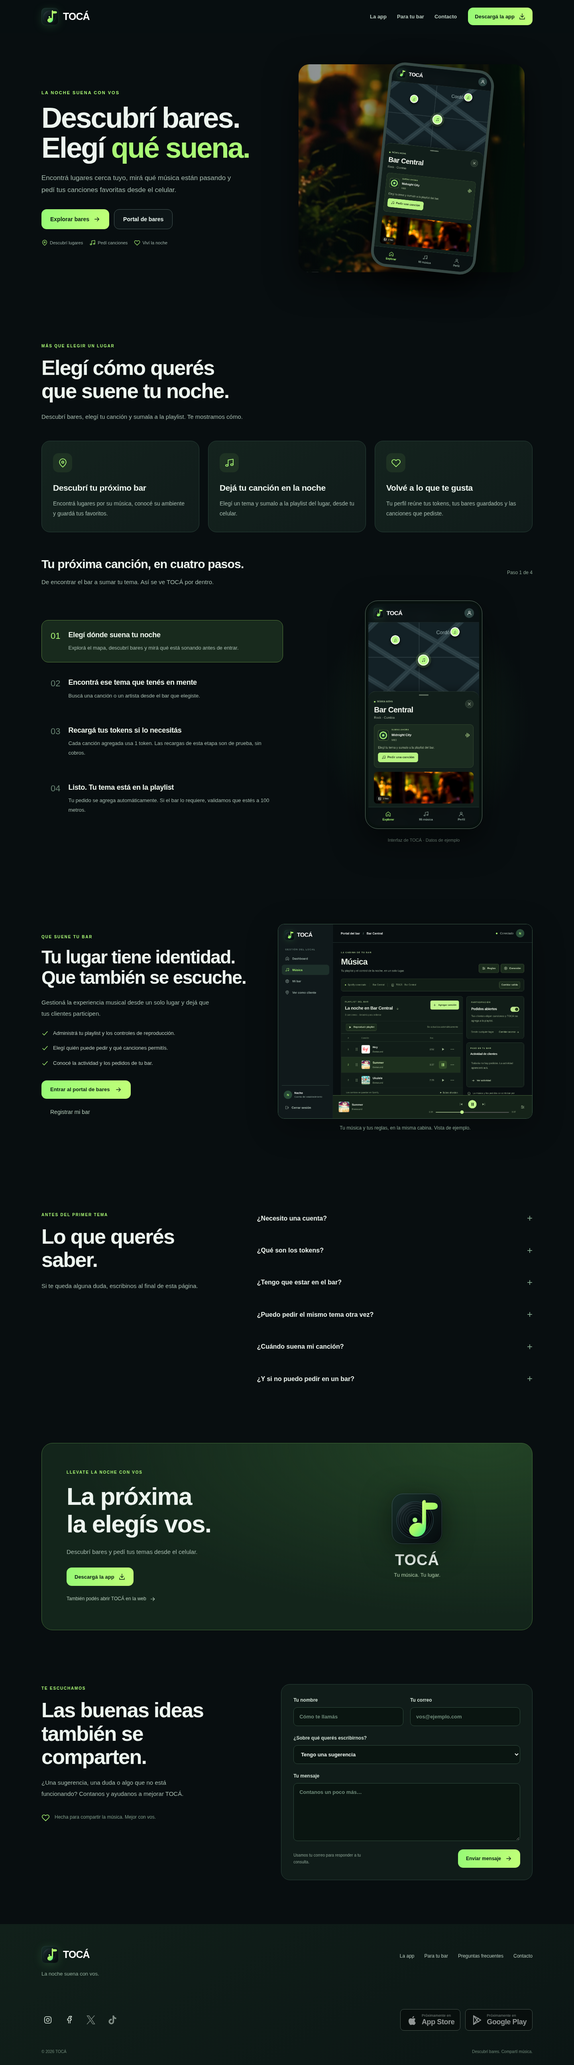
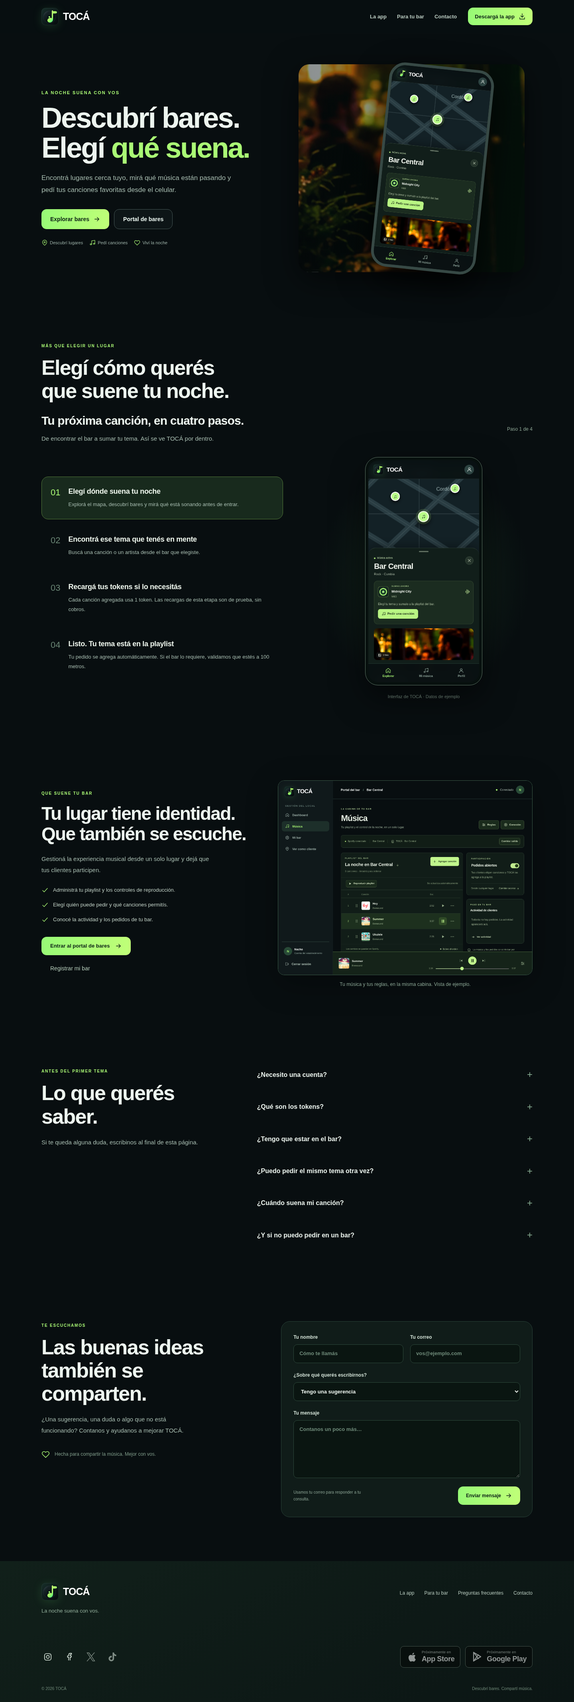
Remove homepage benefit cards and lower download callout

diff --git a/web/landing.css b/web/landing.css
@@ -20,11 +20,8 @@
 .landing-section p{font-size:15px;line-height:1.85;color:var(--landing-muted);margin:0}
 .landing-section-heading{max-width:700px;margin-bottom:46px}.landing-section-heading>p{max-width:570px}
 .landing-intro{padding-top:70px}
-.landing-benefits{display:grid;grid-template-columns:repeat(3,minmax(0,1fr));gap:22px}
-.landing-benefits article{padding:30px 28px 32px;background:linear-gradient(140deg,#14231e,#101b1a);border:1px solid var(--landing-line);border-radius:21px}
-.landing-benefits article>span{display:grid;place-items:center;width:48px;height:48px;border-radius:14px;background:#aafa7513;color:var(--lime);margin-bottom:25px}
-.landing-benefits h3{font-size:21px;letter-spacing:-.4px;line-height:1.3;margin:0 0 13px}.landing-benefits p{font-size:14px}
-.landing-walkthrough{margin-top:62px}
+.landing-intro>.landing-section-heading{margin-bottom:28px}
+.landing-walkthrough{margin-top:0}
 .landing-walkthrough>.landing-section-heading{margin-bottom:32px}
 .landing-walkthrough>.landing-walkthrough-heading{display:flex;align-items:center;justify-content:space-between;gap:24px;max-width:none}
 .landing-walkthrough-controls{display:flex;align-items:center;gap:14px;flex:none}
@@ -55,9 +52,6 @@
 .landing-faq{display:grid;grid-template-columns:minmax(0,.8fr) minmax(0,1.2fr);gap:80px}
 .landing-faq details{padding:21px 0}.landing-faq details:first-child{padding-top:0}
 .landing-faq summary{display:flex;justify-content:space-between;align-items:center;gap:20px;font-size:16px;font-weight:650;line-height:1.6;cursor:pointer;list-style:none}.landing-faq summary::-webkit-details-marker{display:none}.landing-faq summary>span{font-size:24px;color:#85a98f;font-weight:400;transition:transform .2s}.landing-faq details[open] summary>span{transform:rotate(45deg);color:var(--lime)}.landing-faq details>p{font-size:14px;margin-top:14px;padding-right:30px}
-.landing-download{display:grid;grid-template-columns:1.15fr .85fr;gap:40px;align-items:center;max-width:1232px;margin:20px auto 60px;padding:62px;background:radial-gradient(ellipse at 90% 0,#305d2f8c,transparent 65%),#13251b;border:1px solid #426c37;border-radius:28px}
-.landing-download h2{font-size:clamp(42px,4.5vw,62px)}.landing-download p{margin-bottom:25px}.landing-download .landing-text-link{display:flex;justify-content:flex-start;margin-top:17px;font-size:12px}
-.landing-download-art{display:flex;align-items:center;flex-direction:column;justify-content:center;padding:25px}.landing-download-art>img{width:128px;height:128px;filter:drop-shadow(0 12px 35px #050e08a6)}.landing-download-art>span{font-size:38px;font-family:'Outfit',sans-serif;font-weight:750;letter-spacing:1px;margin:18px 0 4px}.landing-download-art>p{font-size:13px;color:#b3cfac;margin:0}
 .landing-contact{display:grid;grid-template-columns:minmax(0,.9fr) minmax(0,1.1fr);gap:85px;padding-top:75px;padding-bottom:110px}.landing-contact>div>p{max-width:390px}.landing-contact-note{display:flex;gap:12px;align-items:center;color:#809d8b;font-size:12px;line-height:1.6;margin-top:35px;max-width:350px}.landing-contact-note svg{color:var(--lime);flex:none}
 #landing-contact-form{display:grid;gap:21px;min-width:0;padding:30px;border-radius:22px;border:1px solid var(--landing-line);background:#101c19}
 #landing-contact-form label{display:grid;gap:9px;color:#d0dfd4;font-size:12px;font-weight:650;line-height:1.5}
@@ -80,7 +74,7 @@
 .landing-download-page{width:100%;max-width:500px;margin:45px auto;text-align:center;color:#edf5ef}.landing-download-page>img{display:block;margin:0 auto 30px}.landing-download-page h1{font-size:38px;line-height:1.15;margin:15px 0 20px}.landing-download-page>p{font-size:14px;color:#a7bdae;line-height:1.8;margin:0 0 28px}.landing-download-page>.toca-btn{margin:30px auto 15px;display:flex;width:max-content}.landing-download-page>.landing-text-link{display:block}
 .landing-expanded :is(a,button,summary):focus-visible,.landing-download-dialog :is(a,button):focus-visible{outline:2px solid var(--lime);outline-offset:5px;border-radius:7px}
 .landing-expanded h1:focus,.landing-download-page h1:focus{outline:none}
-@media(max-width:1000px){.landing-expanded .toca-landing-header nav{gap:16px}.landing-expanded .toca-hero-copy h1{font-size:56px}.landing-expanded .toca-landing-hero{gap:25px}.landing-how-grid{gap:35px}.landing-owners{gap:35px}.landing-contact{gap:38px}.landing-download{margin:20px 24px 45px;padding:45px}.landing-faq{gap:40px}.landing-benefits article{padding:25px 22px}.landing-footer-top{flex-wrap:wrap}}
-@media(max-width:760px){.landing-expanded .toca-landing-header{height:76px;padding:0 16px;gap:10px}.landing-expanded .toca-landing-header>.toca-brand{font-size:22px;padding:0;gap:8px}.landing-expanded .toca-landing-header .toca-brand img{width:30px;height:30px}.landing-expanded .toca-landing-header .toca-brand strong{font-size:22px}.landing-header-actions{gap:8px}.landing-menu-toggle{display:grid;place-items:center;flex:none;width:34px;height:38px;padding:0;border:1px solid #294138;border-radius:9px;background:#13221b;color:#d2e3d6;cursor:pointer}.landing-expanded .toca-landing-header .toca-btn{font-size:11px;padding:10px 11px;min-height:39px;gap:6px}.landing-expanded .toca-landing-header nav{display:none;position:absolute;top:calc(100% + 14px);right:0;width:min(250px,calc(100vw - 32px));padding:9px;border:1px solid #34503e;border-radius:14px;background:#101e18;box-shadow:0 16px 40px #0008;font-size:14px}.landing-expanded .toca-landing-header.is-menu-open nav{display:grid;gap:3px}.landing-expanded .toca-landing-header nav a{display:block;padding:12px 14px;border-radius:9px}.landing-expanded .toca-landing-header nav a:hover{background:#1c3021}.landing-walkthrough{margin-top:40px}.landing-walkthrough h3{font-size:26px}.landing-expanded .toca-landing-hero{padding:46px 22px 55px;min-height:0;grid-template-columns:minmax(0,1fr);gap:35px}.landing-expanded .toca-hero-copy h1{font-size:49px;letter-spacing:-2px}.landing-expanded .toca-hero-copy>p{font-size:15px}.landing-expanded .toca-trust{gap:13px;font-size:10px}.landing-section{padding:65px 22px;scroll-margin-top:96px}.landing-section h2{font-size:35px;letter-spacing:-1.1px}.landing-section-heading{margin-bottom:32px}.landing-benefits{grid-template-columns:minmax(0,1fr);gap:14px}.landing-benefits article{padding:25px}.landing-benefits article>span{margin-bottom:19px}.landing-how-grid,.landing-owners,.landing-contact,.landing-faq{grid-template-columns:minmax(0,1fr);gap:36px}.landing-stages>button{gap:14px;padding:20px 17px}.landing-stages strong{font-size:16px}.landing-stages small{font-size:12px}.landing-screen-area .landing-screen-phone{width:min(100%,270px)}.landing-owners figure{margin-top:5px}.landing-download{grid-template-columns:1fr;margin:10px 22px 15px;padding:36px 28px;border-radius:23px;gap:28px}.landing-download h2{font-size:45px}.landing-download-art{display:none}.landing-contact{padding-top:65px;padding-bottom:65px}#landing-contact-form{padding:23px;gap:19px}.landing-form-row{grid-template-columns:minmax(0,1fr);gap:19px}.landing-form-end{flex-direction:column;align-items:stretch;gap:15px}.landing-form-end small{max-width:none}.landing-form-end .toca-btn{justify-content:center}.landing-contact-note{margin-top:25px}.landing-faq .landing-section-heading{margin:0}.landing-footer{padding:35px 22px 25px}.landing-footer-top{display:block;padding-bottom:28px}.landing-footer nav{gap:15px 23px;margin-top:22px}.landing-footer-bottom{align-items:flex-start;flex-direction:column;gap:25px}.landing-footer-bottom .landing-store-badges{justify-content:flex-start;gap:10px}.landing-store{min-width:142px;padding:8px 11px}.landing-store strong{font-size:17px}.landing-footer-legal{flex-direction:column;gap:5px}.landing-download-dialog{padding-left:22px;padding-right:22px}.landing-download-dialog .landing-store{min-width:130px}.landing-download-dialog .landing-store strong{font-size:16px}.landing-download-dialog .landing-store-badges{gap:8px}.landing-download-dialog .landing-store>svg{width:24px}}
+@media(max-width:1000px){.landing-expanded .toca-landing-header nav{gap:16px}.landing-expanded .toca-hero-copy h1{font-size:56px}.landing-expanded .toca-landing-hero{gap:25px}.landing-how-grid{gap:35px}.landing-owners{gap:35px}.landing-contact{gap:38px}.landing-faq{gap:40px}.landing-footer-top{flex-wrap:wrap}}
+@media(max-width:760px){.landing-expanded .toca-landing-header{height:76px;padding:0 16px;gap:10px}.landing-expanded .toca-landing-header>.toca-brand{font-size:22px;padding:0;gap:8px}.landing-expanded .toca-landing-header .toca-brand img{width:30px;height:30px}.landing-expanded .toca-landing-header .toca-brand strong{font-size:22px}.landing-header-actions{gap:8px}.landing-menu-toggle{display:grid;place-items:center;flex:none;width:34px;height:38px;padding:0;border:1px solid #294138;border-radius:9px;background:#13221b;color:#d2e3d6;cursor:pointer}.landing-expanded .toca-landing-header .toca-btn{font-size:11px;padding:10px 11px;min-height:39px;gap:6px}.landing-expanded .toca-landing-header nav{display:none;position:absolute;top:calc(100% + 14px);right:0;width:min(250px,calc(100vw - 32px));padding:9px;border:1px solid #34503e;border-radius:14px;background:#101e18;box-shadow:0 16px 40px #0008;font-size:14px}.landing-expanded .toca-landing-header.is-menu-open nav{display:grid;gap:3px}.landing-expanded .toca-landing-header nav a{display:block;padding:12px 14px;border-radius:9px}.landing-expanded .toca-landing-header nav a:hover{background:#1c3021}.landing-walkthrough{margin-top:0}.landing-walkthrough h3{font-size:26px}.landing-expanded .toca-landing-hero{padding:46px 22px 55px;min-height:0;grid-template-columns:minmax(0,1fr);gap:35px}.landing-expanded .toca-hero-copy h1{font-size:49px;letter-spacing:-2px}.landing-expanded .toca-hero-copy>p{font-size:15px}.landing-expanded .toca-trust{gap:13px;font-size:10px}.landing-section{padding:65px 22px;scroll-margin-top:96px}.landing-section h2{font-size:35px;letter-spacing:-1.1px}.landing-section-heading{margin-bottom:32px}.landing-how-grid,.landing-owners,.landing-contact,.landing-faq{grid-template-columns:minmax(0,1fr);gap:36px}.landing-stages>button{gap:14px;padding:20px 17px}.landing-stages strong{font-size:16px}.landing-stages small{font-size:12px}.landing-screen-area .landing-screen-phone{width:min(100%,270px)}.landing-owners figure{margin-top:5px}.landing-contact{padding-top:65px;padding-bottom:65px}#landing-contact-form{padding:23px;gap:19px}.landing-form-row{grid-template-columns:minmax(0,1fr);gap:19px}.landing-form-end{flex-direction:column;align-items:stretch;gap:15px}.landing-form-end small{max-width:none}.landing-form-end .toca-btn{justify-content:center}.landing-contact-note{margin-top:25px}.landing-faq .landing-section-heading{margin:0}.landing-footer{padding:35px 22px 25px}.landing-footer-top{display:block;padding-bottom:28px}.landing-footer nav{gap:15px 23px;margin-top:22px}.landing-footer-bottom{align-items:flex-start;flex-direction:column;gap:25px}.landing-footer-bottom .landing-store-badges{justify-content:flex-start;gap:10px}.landing-store{min-width:142px;padding:8px 11px}.landing-store strong{font-size:17px}.landing-footer-legal{flex-direction:column;gap:5px}.landing-download-dialog{padding-left:22px;padding-right:22px}.landing-download-dialog .landing-store{min-width:130px}.landing-download-dialog .landing-store strong{font-size:16px}.landing-download-dialog .landing-store-badges{gap:8px}.landing-download-dialog .landing-store>svg{width:24px}}
 @media(max-width:760px){.landing-walkthrough>.landing-walkthrough-heading{align-items:flex-start;flex-direction:column;gap:18px}.landing-walkthrough-controls{width:100%;justify-content:space-between}}
 @media(prefers-reduced-motion:reduce){.landing-stages>button,.landing-stage-number,.landing-screen-panel,.landing-faq summary>span{transition:none}}

diff --git a/web/landing.js b/web/landing.js
@@ -1,7 +1,7 @@
 /* Public TOCÁ site with screenshots of the current app. */
 (() => {
  'use strict';
- const sections=['inicio','la-app','para-bares','preguntas','descargar','contacto'];
+ const sections=['inicio','la-app','para-bares','preguntas','contacto'];
  const stagePlayers=new WeakMap();let stopWalkthrough=()=>{};
  const safeUrl=value=>{try{const u=new URL(value);return u.protocol==='https:'&&!u.username&&!u.password?u.href:''}catch{return ''}};
  const settings=()=>window.TOCA_CONFIG?.marketing||{};
@@ -50,7 +50,7 @@
   root.querySelector('.toca-landing-header').innerHTML=`${brand()}<div class="landing-header-actions"><nav id="landing-main-navigation" aria-label="Secciones de inicio">${anchor('la-app','La app')}${anchor('para-bares','Para tu bar')}${anchor('contacto','Contacto')}</nav><button type="button" class="landing-menu-toggle" aria-controls="landing-main-navigation" aria-expanded="false" aria-label="Abrir menú">${svg('<path d="M4 6h16M4 12h16M4 18h16"/>',20)}</button>${downloadButton()}</div>`;
   const logo=root.querySelector('.toca-landing-header .toca-brand');logo.href='#/?section=inicio';logo.dataset.homeAnchor='inicio';logo.setAttribute('aria-label','TOCÁ · Inicio');
   root.querySelector('.toca-landing-hero').setAttribute('aria-label','Descubrí TOCÁ');
-  root.querySelector('.toca-landing-features').outerHTML=`<section id="la-app" class="landing-section landing-intro"><div class="landing-section-heading"><span class="eyebrow">MÁS QUE ELEGIR UN LUGAR</span><h2>Elegí cómo querés<br>que suene tu noche.</h2><p>Descubrí bares, elegí tu canción y sumala a la playlist. Te mostramos cómo.</p></div><div class="landing-benefits">${[['pin','Descubrí tu próximo bar','Encontrá lugares por su música, conocé su ambiente y guardá tus favoritos.'],['music','Dejá tu canción en la noche','Elegí un tema y sumalo a la playlist del lugar, desde tu celular.'],['heart','Volvé a lo que te gusta','Tu perfil reúne tus tokens, tus bares guardados y las canciones que pediste.']].map(([ic,title,copy])=>`<article><span>${iconSvg(ic,25)}</span><h3>${title}</h3><p>${copy}</p></article>`).join('')}</div>${walkthrough()}</section>`;
+  root.querySelector('.toca-landing-features').outerHTML=`<section id="la-app" class="landing-section landing-intro"><div class="landing-section-heading"><span class="eyebrow">MÁS QUE ELEGIR UN LUGAR</span><h2>Elegí cómo querés<br>que suene tu noche.</h2></div>${walkthrough()}</section>`;
   root.querySelector('.toca-footer').remove();
   root.insertAdjacentHTML('beforeend',`
    <section id="para-bares" class="landing-section landing-owners"><div><span class="eyebrow">QUE SUENE TU BAR</span><h2>Tu lugar tiene identidad.<br>Que también se escuche.</h2><p>Gestioná la experiencia musical desde un solo lugar y dejá que tus clientes participen.</p><ul><li>${iconSvg('check',18)} Administrá tu playlist y los controles de reproducción.</li><li>${iconSvg('check',18)} Elegí quién puede pedir y qué canciones permitís.</li><li>${iconSvg('check',18)} Conocé la actividad y los pedidos de tu bar.</li></ul><div class="landing-owner-actions"><a href="${tocaPortalDestination()}" class="toca-btn"><span>${state.token&&!state.demo?'Ir a mi portal':'Entrar al portal de bares'}</span>${iconSvg('arrow',18)}</a><a class="landing-text-link" href="#/register"><span>Registrar mi bar</span></a></div></div><figure><img src="/assets/landing/admin-music.png?v=covers-2" width="1100" height="840" loading="lazy" alt="Panel de música de TOCÁ para administrar la playlist del bar"><figcaption>Tu música y tus reglas, en la misma cabina. Vista de ejemplo.</figcaption></figure></section>
@@ -62,7 +62,6 @@
     ['¿Cuándo suena mi canción?','Se suma a la playlist del bar en el orden de los pedidos. La reproducción depende de la configuración musical del lugar.'],
     ['¿Y si no puedo pedir en un bar?','Es posible que la música esté pausada, que los pedidos estén deshabilitados o que el tema no esté permitido por el local. Podés seguir explorando otros lugares.']
    ].map(([title,copy])=>`<details><summary>${title}<span aria-hidden="true">+</span></summary><p>${copy}</p></details>`).join('')}</div></section>
-   <section id="descargar" class="landing-section landing-download"><div><span class="eyebrow">LLEVATE LA NOCHE CON VOS</span><h2>La próxima<br>la elegís vos.</h2><p>Descubrí bares y pedí tus temas desde el celular.</p>${downloadButton()}<a class="landing-text-link" href="#/explore">También podés abrir TOCÁ en la web ${iconSvg('arrow',16)}</a></div><div class="landing-download-art" aria-hidden="true"><img src="/assets/icon.svg" alt=""><span>TOCÁ</span><p>Tu música. Tu lugar.</p></div></section>
    <section id="contacto" class="landing-section landing-contact"><div><span class="eyebrow">TE ESCUCHAMOS</span><h2>Las buenas ideas<br>también se comparten.</h2><p>¿Una sugerencia, una duda o algo que no está funcionando? Contanos y ayudanos a mejorar TOCÁ.</p><div class="landing-contact-note">${iconSvg('heart',21)} Hecha para compartir la música. Mejor con vos.</div></div><form id="landing-contact-form"><div class="landing-form-row"><label>Tu nombre<input class="input" name="name" required minlength="2" maxlength="120" autocomplete="name" placeholder="Cómo te llamás"></label><label>Tu correo<input class="input" name="email" type="email" required maxlength="200" autocomplete="email" placeholder="vos@ejemplo.com"></label></div><label>¿Sobre qué querés escribirnos?<select class="input" name="kind"><option value="suggestion">Tengo una sugerencia</option><option value="problem">Encontré un problema</option><option value="other">Quiero hacer una consulta</option></select></label><label>Tu mensaje<textarea class="input" name="message" required minlength="10" maxlength="4000" rows="5" placeholder="Contanos un poco más…"></textarea></label><div class="landing-form-trap" aria-hidden="true"><label>Sitio web<input name="website" tabindex="-1" autocomplete="off"></label></div><p class="landing-form-status" role="status" aria-live="polite" hidden></p><div class="landing-form-end"><small>Usamos tu correo para responder a tu consulta.</small><button type="submit" class="toca-btn">Enviar mensaje ${iconSvg('arrow',18)}</button></div></form></section>
    <footer class="landing-footer"><div class="landing-footer-top"><div>${brand()}<p>La noche suena con vos.</p></div><nav aria-label="Enlaces del sitio">${anchor('la-app','La app')}${anchor('para-bares','Para tu bar')}${anchor('preguntas','Preguntas frecuentes')}${anchor('contacto','Contacto')}</nav></div><div class="landing-footer-bottom"><div class="landing-socials" aria-label="Redes sociales">${socials()}</div>${badges()}</div><div class="landing-footer-legal"><span>© ${new Date().getFullYear()} TOCÁ</span><span>Descubrí bares. Compartí música.</span></div></footer>`);
   const main=document.createElement('main');main.className='landing-main';root.querySelector('.toca-landing-header').after(main);root.querySelectorAll(':scope > section').forEach(section=>main.append(section));

diff --git a/web/sw.js b/web/sw.js
@@ -1,4 +1,4 @@
-const CACHE="toca-shell-3b1132f9a64c7c50";const SHELL=["/", "/index.html", "/manifest.webmanifest", "/assets/icon.svg", "/styles.css", "/toca.css?v=admin-width-1", "/toca-admin-clean.css?v=1735", "/toca-dashboard-controls.css?v=1737", "/toca-mibar-v174.css?v=174", "/toca-hours-v175.css?v=176", "/toca-v180.css?v=180", "/toca-map-credits-v181.css?v=181", "/toca-location-v184.css?v=184", "/toca-v184.css?v=184", "/toca-v185.css?v=185", "/toca-location-v1810.css?v=1810", "/toca-description-v1811.css?v=1811", "/toca-artwork-v1813.css?v=1813", "/toca-now-v1816.css?v=1816", "/toca-playlist-v1820.css?v=1820", "/toca-playlist-scroll-v1821.css?v=1821", "/toca-how-v1823.css?v=1823", "/toca-customer-v1826.css?v=1826", "/toca-presence-v1827.css?v=1827", "/toca-access-layout-v1829.css?v=1829", "/toca-cleanup-v1830.css?v=1830", "/toca-mi-bar-cards-v1839.css?v=1839", "/toca-spacing-v1840.css?v=1840", "/toca-profile-v1841.css?v=1841", "/toca-map-hover-v1845.css?v=1845", "/toca-google-v1847.css?v=1847", "/admin-profile.css?v=1", "/account.css?v=1", "/music-cabina.css?v=number-heading-1", "/venue-import.css?v=bio-hours-1", "/venue-onboarding.css?v=1", "/venue-profile.css?v=admin-width-1", "/venue-gallery.css?v=1", "/customer-wallet.css?v=brand-colors-3", "/bar-dashboard.css?v=1", "/map-place-panel.css?v=5", "/landing.css?v=footer-8", "/config.js?v=marketing-2", "/assets/qr.js", "/toca-hours-v175.js?v=176", "/request-sync.js?v=redirect-2", "/app.js?v=resume-after-topup-3", "/map-place-panel.js?v=5", "/toca-map-credits-v181.js?v=181", "/toca-ui.js?v=landing-3", "/bar-dashboard.js?v=1", "/venue-gallery.js?v=1", "/customer-wallet.js?v=resume-after-topup-2", "/toca-customer-v1826.js?v=account-layout-2", "/live-music.js?v=1816", "/venue-location.js?v=onboarding-1", "/toca-location-v1828.js?v=1828", "/toca-v17.js?v=venue-gallery-1", "/toca-v1738.js?v=1738", "/toca-v1739.js?v=1739", "/toca-artwork-v1813.js?v=1813", "/toca-now-v1816.js?v=1816", "/toca-playlist-v1820.js?v=1821", "/toca-presence-v1827.js?v=presence-recovery-1", "/toca-admin-access-v1829.js?v=distance-1", "/toca-cleanup-v1830.js?v=1830", "/toca-mi-bar-cards-v1839.js?v=1839", "/toca-profile-v1841.js?v=tokens-1", "/toca-google-v1847.js?v=1847b", "/account.js?v=2", "/map-loader.js?v=distance-map-1", "/landing.js?v=footer-9", "/runtime.js?v=3", "/admin-profile.js?v=1", "/bio-hours.js?v=1", "/venue-import.js?v=profile-sections-1", "/music-cabina.js?v=number-heading-1", "/music-cabina-drag.js?v=drag-2", "/music-edit-intent.js?v=1", "/music-playback.js?v=1", "/admin-music.js?v=playlist-edits-3", "/venue-onboarding.js?v=profile-sections-1", "/venue-profile.js?v=hours-2", "/assets/toca-home-map.svg", "/assets/venues/bar-1.webp", "/assets/venues/bar-2.webp", "/assets/venues/bar-3.webp", "/assets/venues/bar-4.webp", "/assets/venues/bar-5.webp", "/assets/venues/bar-6.webp", "/assets/landing/explore.png", "/assets/landing/search.png", "/assets/landing/tokens.png", "/assets/landing/success.png", "/assets/landing/admin-music.png?v=covers-2"];
+const CACHE="toca-shell-5dba5946186fd43c";const SHELL=["/", "/index.html", "/manifest.webmanifest", "/assets/icon.svg", "/styles.css", "/toca.css?v=admin-width-1", "/toca-admin-clean.css?v=1735", "/toca-dashboard-controls.css?v=1737", "/toca-mibar-v174.css?v=174", "/toca-hours-v175.css?v=176", "/toca-v180.css?v=180", "/toca-map-credits-v181.css?v=181", "/toca-location-v184.css?v=184", "/toca-v184.css?v=184", "/toca-v185.css?v=185", "/toca-location-v1810.css?v=1810", "/toca-description-v1811.css?v=1811", "/toca-artwork-v1813.css?v=1813", "/toca-now-v1816.css?v=1816", "/toca-playlist-v1820.css?v=1820", "/toca-playlist-scroll-v1821.css?v=1821", "/toca-how-v1823.css?v=1823", "/toca-customer-v1826.css?v=1826", "/toca-presence-v1827.css?v=1827", "/toca-access-layout-v1829.css?v=1829", "/toca-cleanup-v1830.css?v=1830", "/toca-mi-bar-cards-v1839.css?v=1839", "/toca-spacing-v1840.css?v=1840", "/toca-profile-v1841.css?v=1841", "/toca-map-hover-v1845.css?v=1845", "/toca-google-v1847.css?v=1847", "/admin-profile.css?v=1", "/account.css?v=1", "/music-cabina.css?v=number-heading-1", "/venue-import.css?v=bio-hours-1", "/venue-onboarding.css?v=1", "/venue-profile.css?v=admin-width-1", "/venue-gallery.css?v=1", "/customer-wallet.css?v=brand-colors-3", "/bar-dashboard.css?v=1", "/map-place-panel.css?v=5", "/landing.css?v=content-9", "/config.js?v=marketing-2", "/assets/qr.js", "/toca-hours-v175.js?v=176", "/request-sync.js?v=redirect-2", "/app.js?v=resume-after-topup-3", "/map-place-panel.js?v=5", "/toca-map-credits-v181.js?v=181", "/toca-ui.js?v=landing-3", "/bar-dashboard.js?v=1", "/venue-gallery.js?v=1", "/customer-wallet.js?v=resume-after-topup-2", "/toca-customer-v1826.js?v=account-layout-2", "/live-music.js?v=1816", "/venue-location.js?v=onboarding-1", "/toca-location-v1828.js?v=1828", "/toca-v17.js?v=venue-gallery-1", "/toca-v1738.js?v=1738", "/toca-v1739.js?v=1739", "/toca-artwork-v1813.js?v=1813", "/toca-now-v1816.js?v=1816", "/toca-playlist-v1820.js?v=1821", "/toca-presence-v1827.js?v=presence-recovery-1", "/toca-admin-access-v1829.js?v=distance-1", "/toca-cleanup-v1830.js?v=1830", "/toca-mi-bar-cards-v1839.js?v=1839", "/toca-profile-v1841.js?v=tokens-1", "/toca-google-v1847.js?v=1847b", "/account.js?v=2", "/map-loader.js?v=distance-map-1", "/landing.js?v=content-10", "/runtime.js?v=3", "/admin-profile.js?v=1", "/bio-hours.js?v=1", "/venue-import.js?v=profile-sections-1", "/music-cabina.js?v=number-heading-1", "/music-cabina-drag.js?v=drag-2", "/music-edit-intent.js?v=1", "/music-playback.js?v=1", "/admin-music.js?v=playlist-edits-3", "/venue-onboarding.js?v=profile-sections-1", "/venue-profile.js?v=hours-2", "/assets/toca-home-map.svg", "/assets/venues/bar-1.webp", "/assets/venues/bar-2.webp", "/assets/venues/bar-3.webp", "/assets/venues/bar-4.webp", "/assets/venues/bar-5.webp", "/assets/venues/bar-6.webp", "/assets/landing/explore.png", "/assets/landing/search.png", "/assets/landing/tokens.png", "/assets/landing/success.png", "/assets/landing/admin-music.png?v=covers-2"];
 self.addEventListener('install',e=>e.waitUntil(caches.open(CACHE).then(c=>c.addAll(SHELL)).then(()=>self.skipWaiting())));
 self.addEventListener('activate',e=>e.waitUntil(caches.keys().then(keys=>Promise.all(keys.filter(k=>k.startsWith('toca-shell-')&&k!==CACHE).map(k=>caches.delete(k)))).then(()=>self.clients.claim())));
 self.addEventListener('fetch',e=>{const u=new URL(e.request.url);if(e.request.method!=='GET'||u.origin!==location.origin||u.pathname.startsWith('/api/'))return;

diff --git a/web/index.html b/web/index.html
@@ -58,7 +58,7 @@
   <link rel="stylesheet" href="/customer-wallet.css?v=brand-colors-3" />
   <link rel="stylesheet" href="/bar-dashboard.css?v=1" />
   <link rel="stylesheet" href="/map-place-panel.css?v=5" />
-  <link rel="stylesheet" href="/landing.css?v=footer-8" />
+  <link rel="stylesheet" href="/landing.css?v=content-9" />
 </head>
 <body>
   <div id="app"></div>
@@ -92,7 +92,7 @@
   <script src="/toca-google-v1847.js?v=1847b" defer></script>
   <script src="/account.js?v=2" defer></script>
   <script src="/map-loader.js?v=distance-map-1" defer></script>
-  <script src="/landing.js?v=footer-9" defer></script>
+  <script src="/landing.js?v=content-10" defer></script>
   <script src="/runtime.js?v=3" defer></script>
   <script src="/admin-profile.js?v=1" defer></script>
   <script src="/bio-hours.js?v=1" defer></script>

diff --git a/scripts/test-landing.py b/scripts/test-landing.py
@@ -31,7 +31,8 @@ try:
     page.locator(f'.toca-landing-header [data-home-anchor="{identity}"]').click()
    header=page.locator('.toca-landing-header')
    assert header.locator('nav a').count()==3
-   assert root.locator('#la-app .landing-benefits article').count()==3 and root.locator('#la-app [data-landing-stage]').count()==4
+   assert not root.locator('.landing-benefits,#descargar').count()
+   assert root.locator('#la-app [data-landing-stage]').count()==4
    assert root.locator('#como-funciona').count()==0
    if width==1440:
     nav_box=header.locator('nav').bounding_box();download_box=header.locator('[data-download-open]').bounding_box()
@@ -77,7 +78,7 @@ try:
    dialog.locator('[data-download-close]').click();expect(dialog).not_to_be_visible()
    assert page.locator('.landing-socials a[href*="instagram.com/tocamusicapp"]').count()==1
    assert page.locator('.landing-socials a[href*="facebook.com"]').count()==1
-   for id in ['la-app','para-bares','descargar','contacto']:
+   for id in ['la-app','para-bares','contacto']:
     page.locator('#'+id).scroll_into_view_if_needed();page.wait_for_timeout(100)
    page.wait_for_function("Array.from(document.querySelectorAll('.landing-expanded img')).filter(i=>!i.closest('[hidden]')).every(i=>i.complete&&i.naturalWidth>0)")
    owner_image=page.locator('#para-bares figure img')

diff --git a/docs/INICIO.md b/docs/INICIO.md
@@ -1,6 +1,6 @@
 # Inicio público de TOCÁ
 
-La página reúne la presentación, “La app” (beneficios y recorrido con capturas en una sola sección), el portal para bares, preguntas frecuentes, descarga y contacto. Las capturas usan el nombre de ejemplo “Bar Central”. Respeta los colores y componentes de la app.
+La página reúne la presentación, “La app” con el recorrido en cuatro pasos, el portal para bares, preguntas frecuentes y contacto. El acceso a descarga está en la cabecera y las tiendas en el pie. Las capturas usan el nombre de ejemplo “Bar Central”. Respeta los colores y componentes de la app.
 
 Los enlaces de la cabecera y el pie llevan a secciones de la misma página mediante el router existente: `/#/?section=la-app`, `/#/?section=para-bares` y `/#/?section=contacto`. Los enlaces anteriores a `section=como-funciona` siguen llevando a “La app”. Funcionan al abrir un enlace directo y al usar atrás/adelante, y conservan el formulario mientras se navega entre secciones. La cabecera permanece visible; sus enlaces se agrupan a la derecha junto a “Descargá la app”. En celular se reúnen en un menú junto al mismo botón.
 
